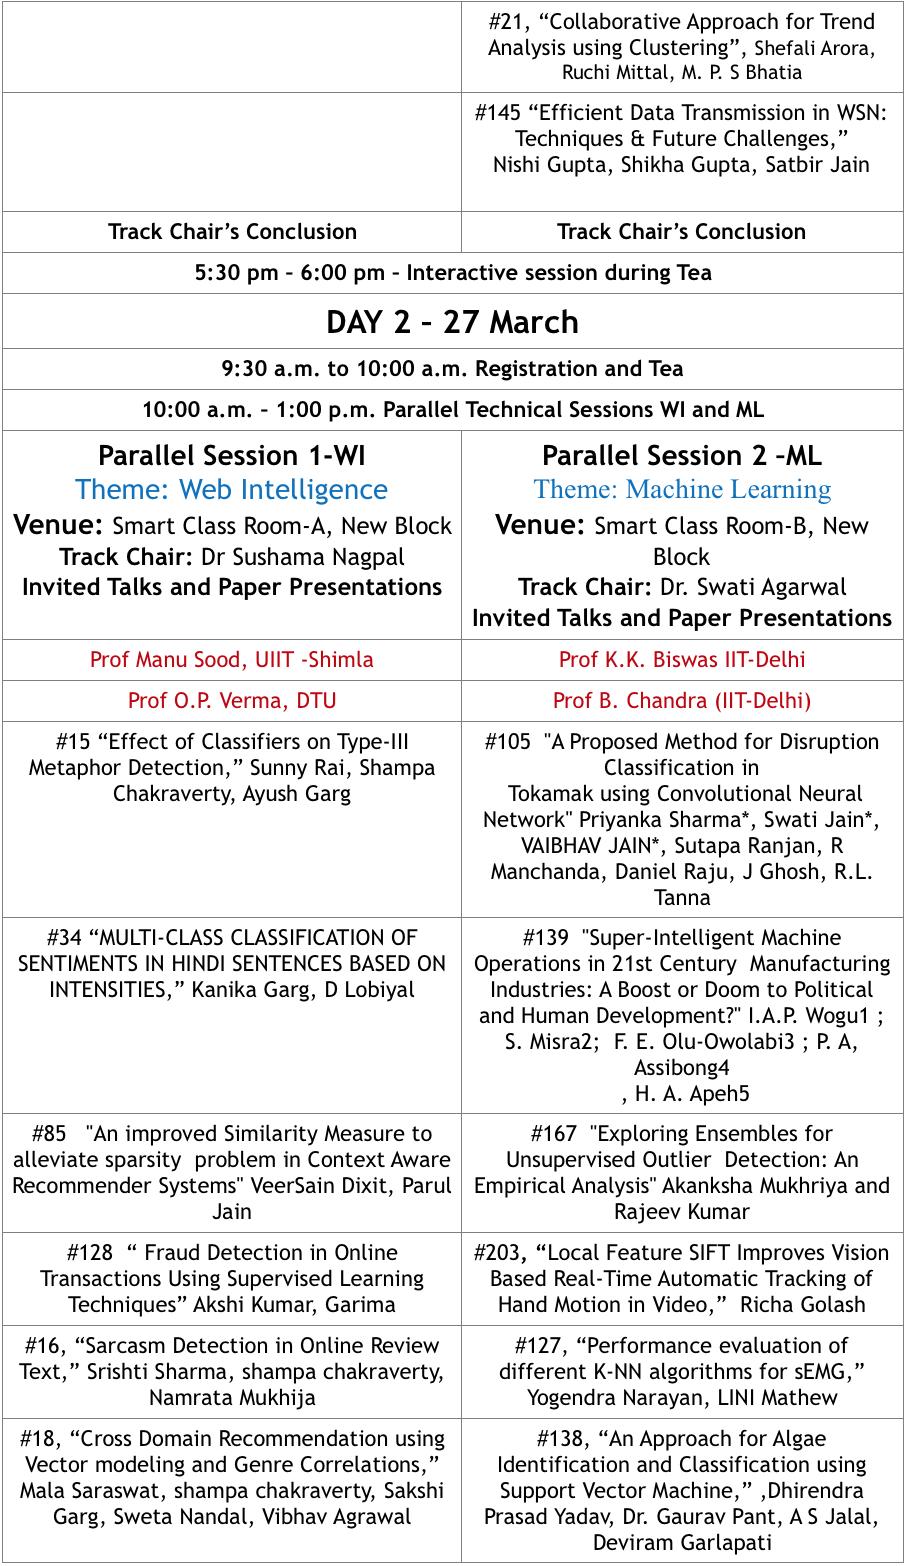
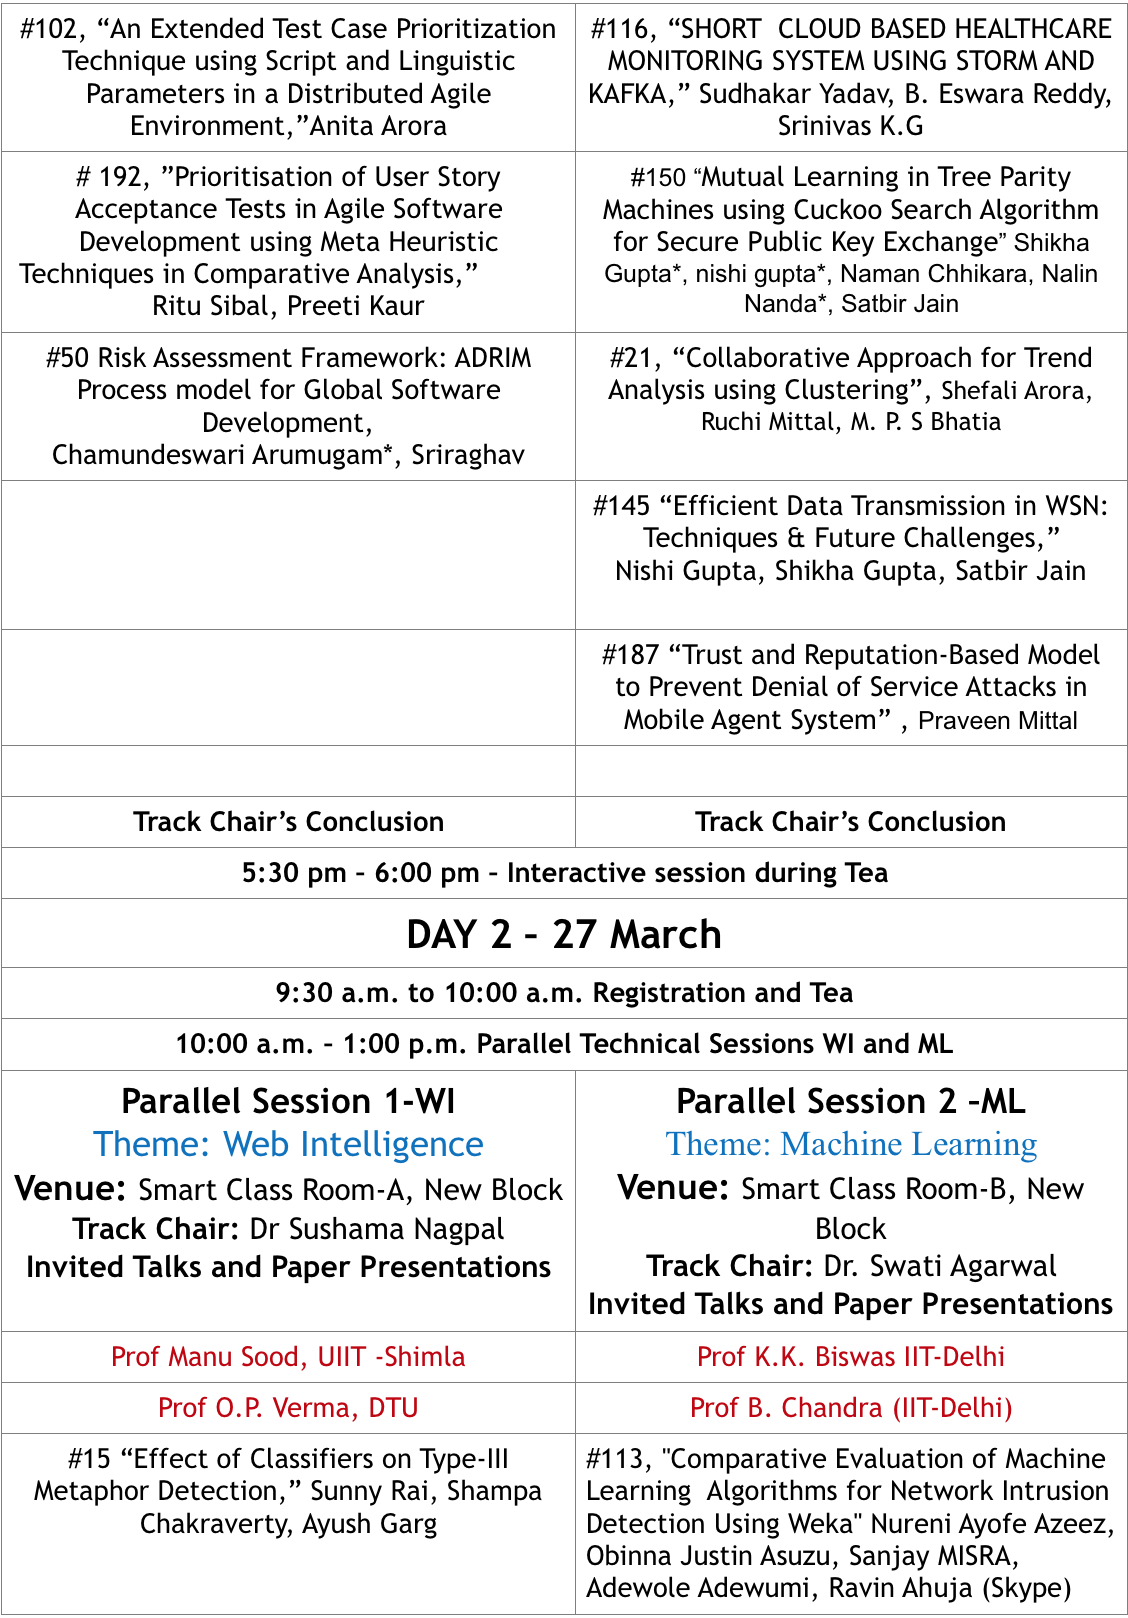
update program

Changed region(s): [[0.0, 0.0, 1.0, 1.0]]

diff --git a/index.js b/index.js
@@ -19,7 +19,7 @@ $(document).ready(function () {
     if (jumbotron.css('margin-top') == '80px') {
       //jumbotron.css('margin-top', 375);
     } else {
-    //  jumbotron.css('margin-top', 80);
+      //  jumbotron.css('margin-top', 80);
     }
   });
 
@@ -1365,6 +1365,9 @@ different capacities.
                         <img src="images/prog3.png" style="width:100%">
                         <img src="images/prog4.png" style="width:100%">
                         <img src="images/prog5.png" style="width:100%">
+                        <img src="images/prog6.png" style="width:100%">
+                        <img src="images/prog7.png" style="width:100%">
+
                       </div>
                         
                     </div>
